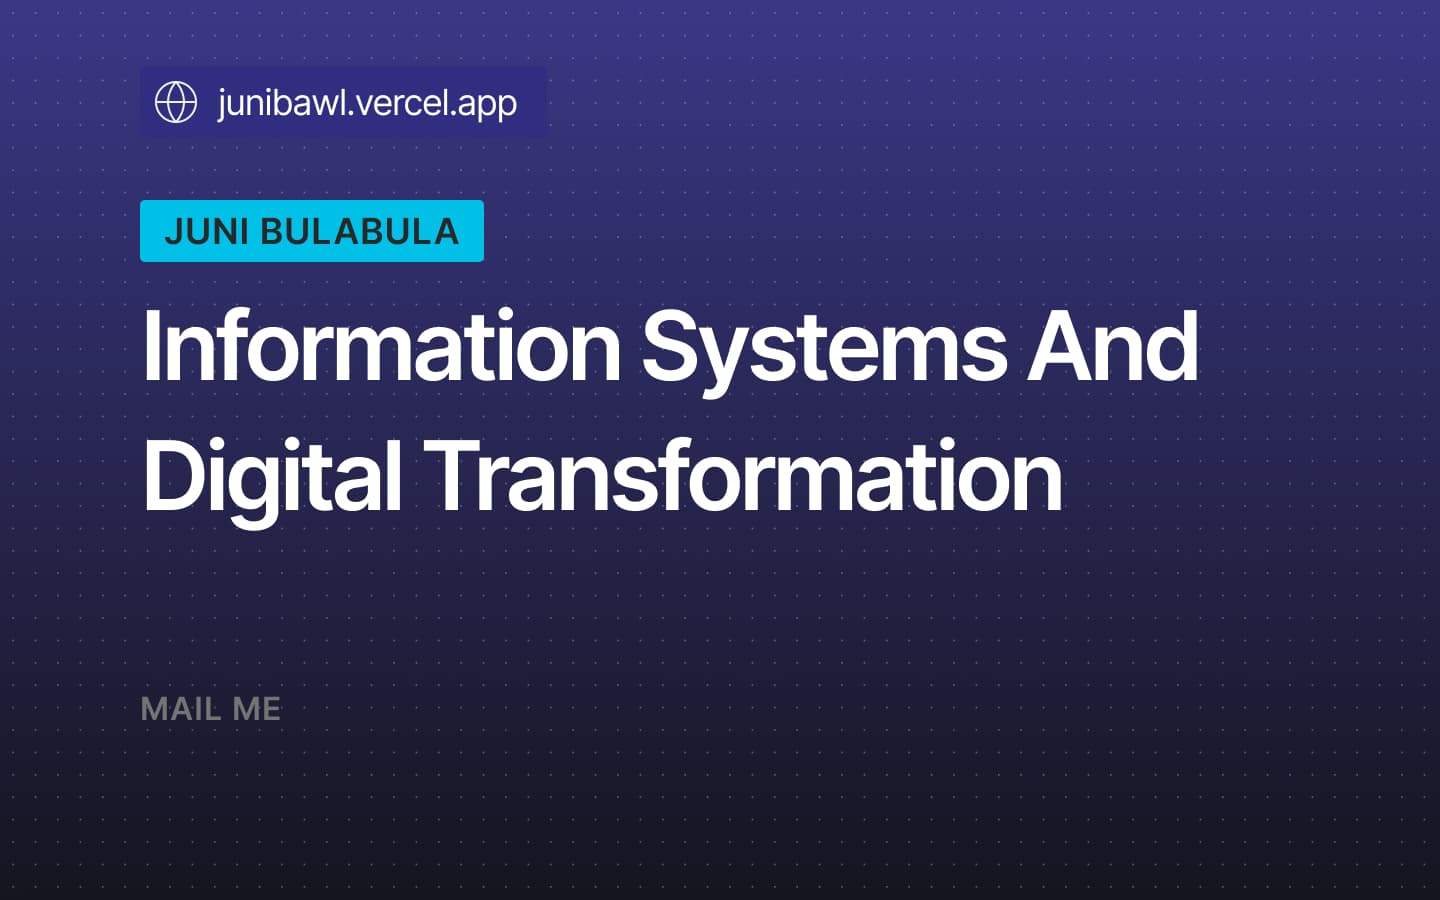
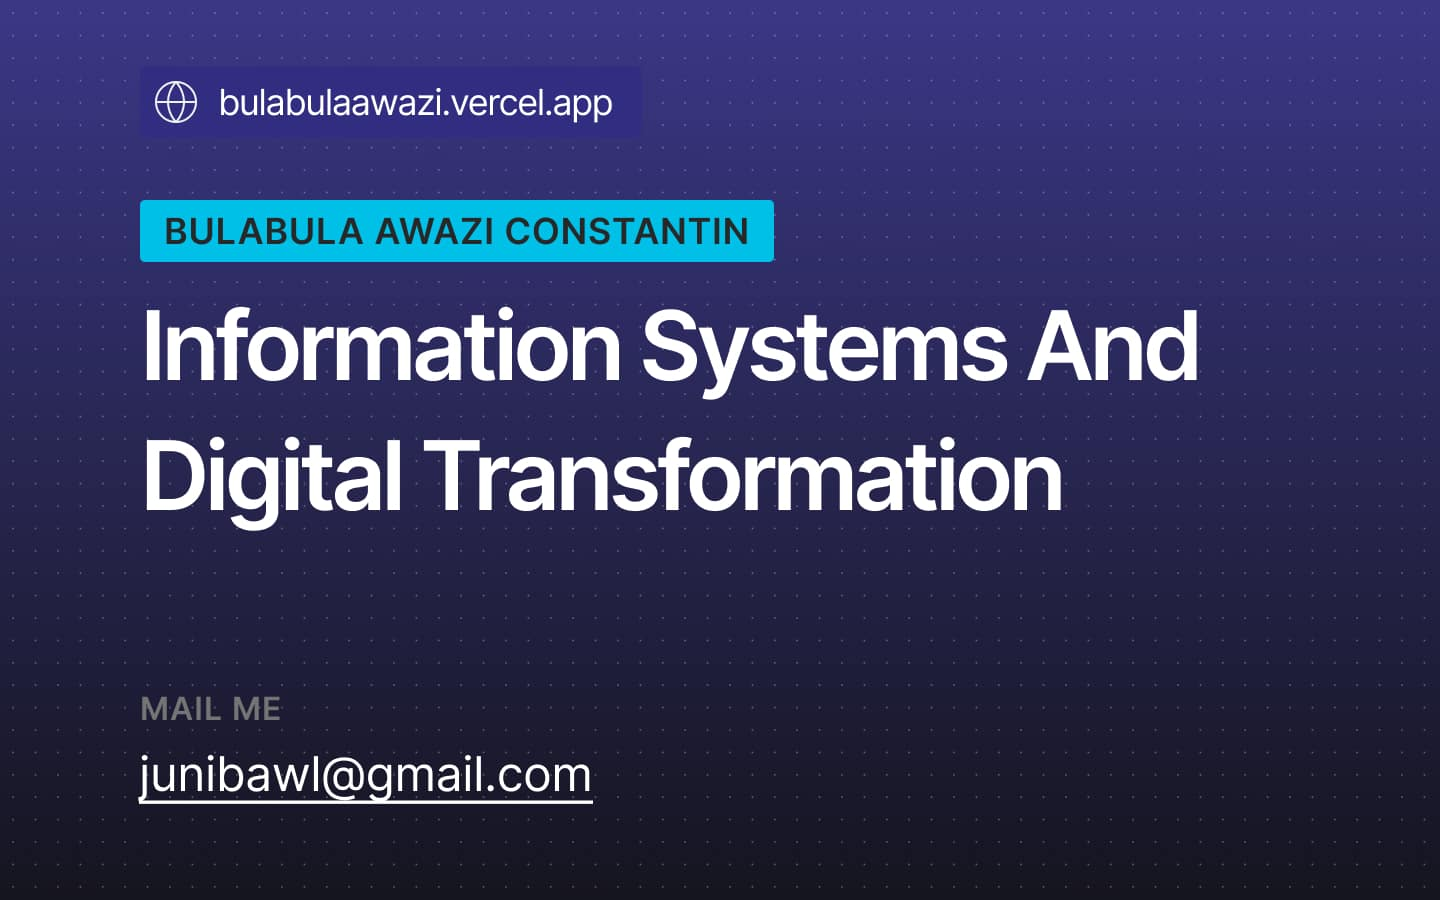
update(all): generate all 002

Changed region(s): [[0.0938, 0.2178, 0.5625, 0.3111], [0.0938, 0.84, 0.4062, 0.9022], [0.1562, 0.0933, 0.4375, 0.1556]]

diff --git a/nuxt.config.ts b/nuxt.config.ts
@@ -24,10 +24,10 @@ export default defineNuxtConfig({
 					property: "og:description",
 					content: "Information Systems and Digital Transformation"
 				},
-				{ property: "og:url", content: "https://junibawl.vercel.app/" },
+				{ property: "og:url", content: "https://bulabulaawazi.vercel.app/" },
 				{
 					property: "og:image",
-					content: "https://junibawl.vercel.app/img/cover.jpg"
+					content: "https://bulabulaawazi.vercel.app/img/cover.jpg"
 				},
 				{ name: "twitter:title", content: "Bulabula AWAZI" },
 				{
@@ -36,7 +36,7 @@ export default defineNuxtConfig({
 				},
 				{
 					name: "twitter:image",
-					content: "https://junibawl.vercel.app/img/cover.jpg"
+					content: "https://bulabulaawazi.vercel.app/img/cover.jpg"
 				},
 				{ name: "twitter:card", content: "summary_large_image" }
 			],
